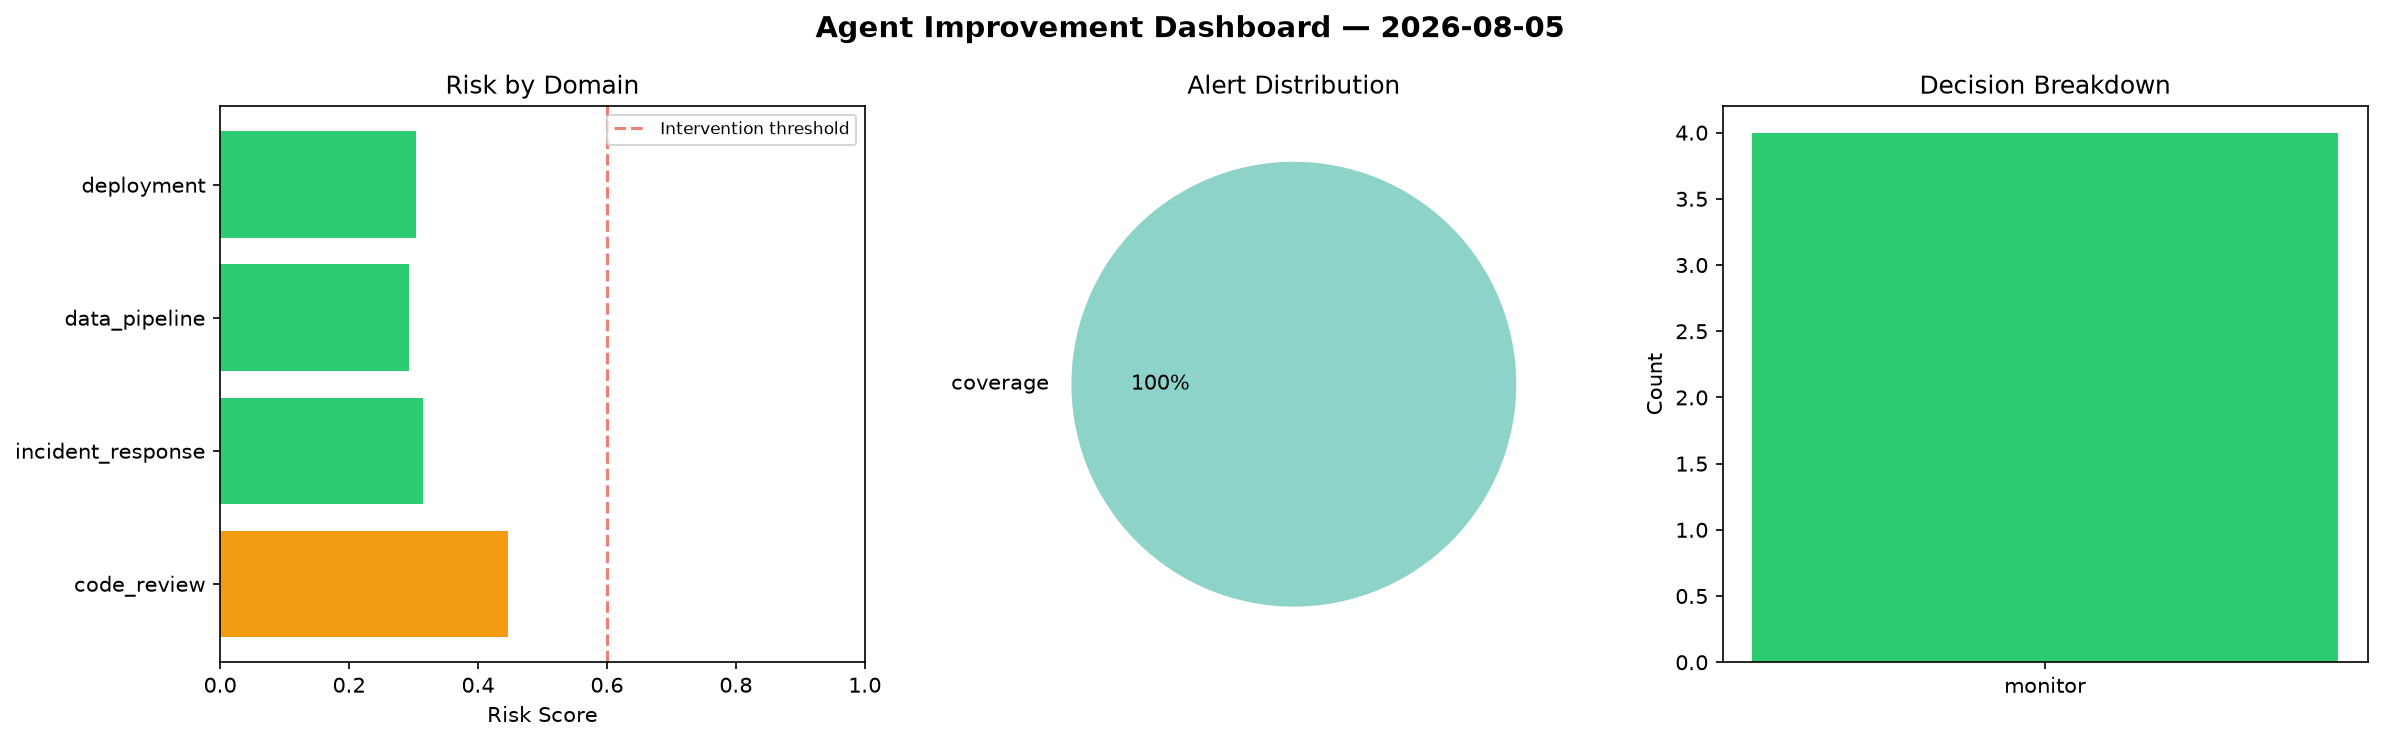
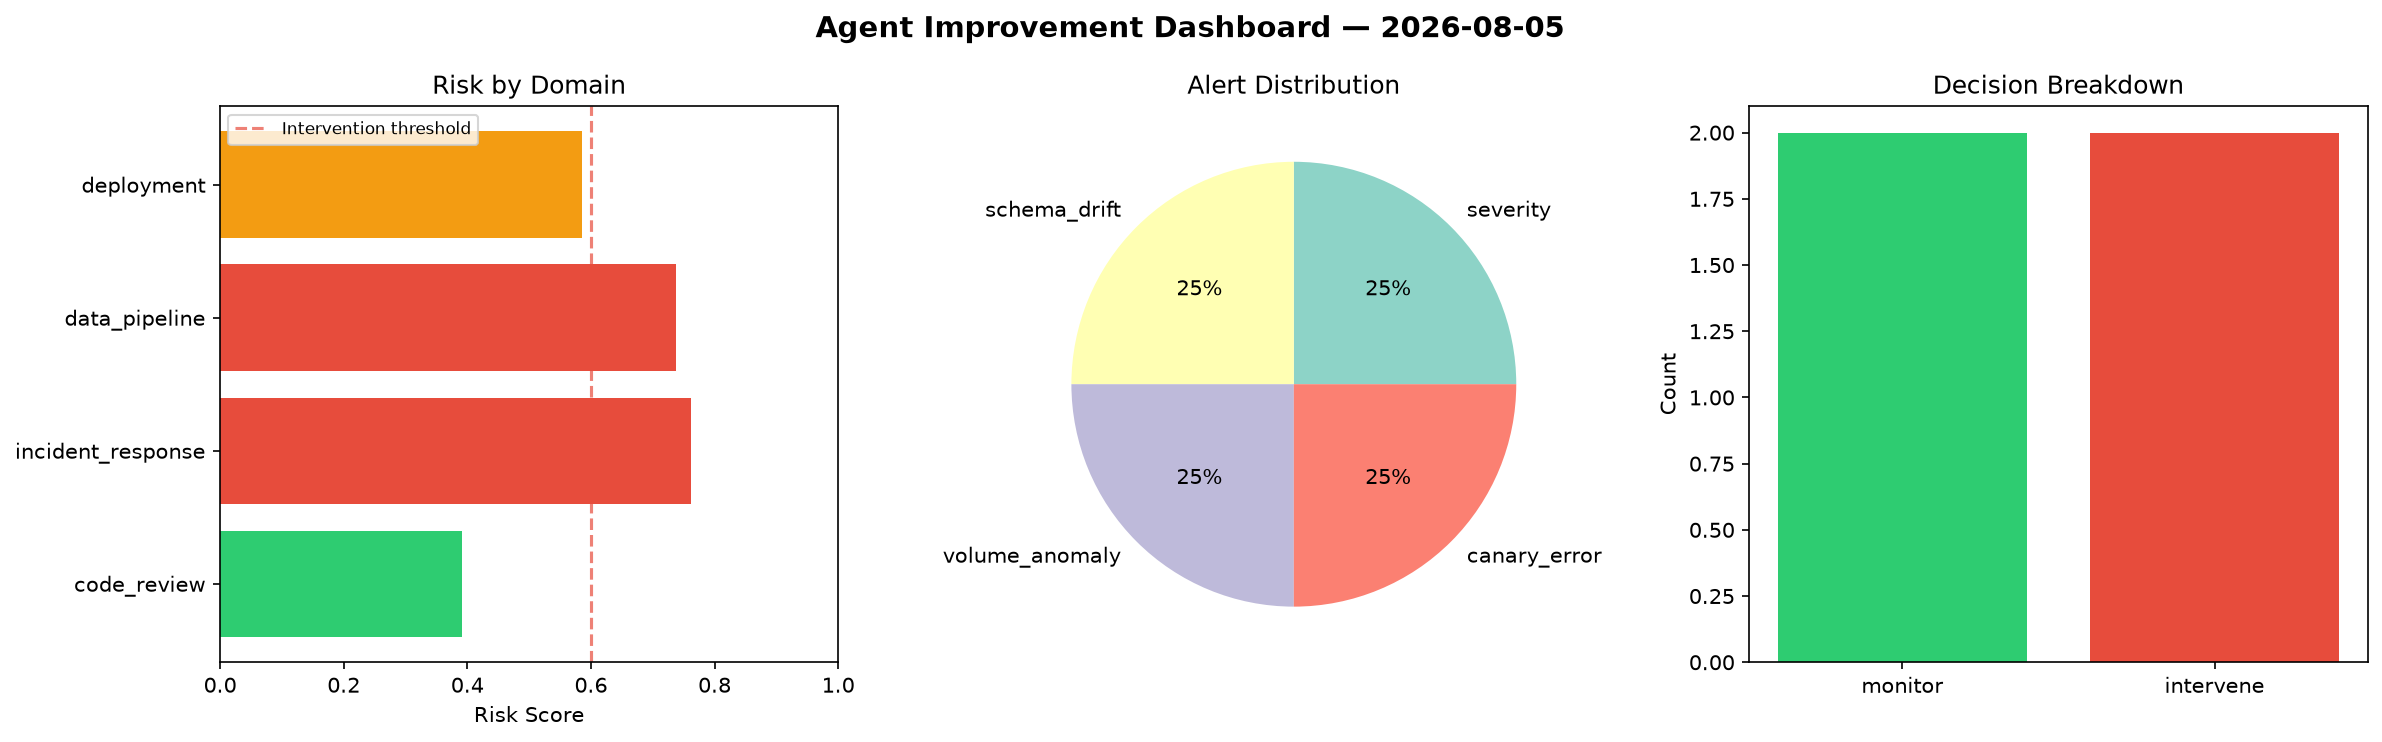
agent-improvement: daily cycle 2026-08-05T21:30

diff --git a/logs/2026-08-05.md b/logs/2026-08-05.md
@@ -1,6 +1,6 @@
 # Agent Improvement Report — 2026-08-05
 
-**Cycle ID:** `532a2af0` | **Avg Risk:** 0.3397 | **Interventions:** 0/4
+**Cycle ID:** `3d6f11b5` | **Avg Risk:** 0.6191 | **Interventions:** 2/4
 
 ![Dashboard](2026-08-05_dashboard.png)
 
@@ -10,18 +10,18 @@
 
 | Domain | Risk Score | Decision | Alerts |
 |--------|-----------|----------|--------|
-| code_review | 0.4472 | monitor | coverage |
-| incident_response | 0.3152 | monitor | none |
-| data_pipeline | 0.293 | monitor | none |
-| deployment | 0.3035 | monitor | none |
+| code_review | 0.3914 | monitor | none |
+| incident_response | 0.7612 | intervene | severity |
+| data_pipeline | 0.7381 | intervene | schema_drift, volume_anomaly |
+| deployment | 0.5859 | monitor | canary_error |
 
 ## Delta vs Yesterday
 
 | Domain | Today | Yesterday | Change |
 |--------|-------|-----------|--------|
-| code_review | 0.4472 | 0.7073 | 📉 -36.8% |
-| incident_response | 0.3152 | 0.4494 | 📉 -29.9% |
-| data_pipeline | 0.293 | 0.2941 | 📉 -0.4% |
-| deployment | 0.3035 | 0.4453 | 📉 -31.8% |
+| code_review | 0.3914 | 0.7073 | 📉 -44.7% |
+| incident_response | 0.7612 | 0.4494 | 📈 69.4% |
+| data_pipeline | 0.7381 | 0.2941 | 📈 151.0% |
+| deployment | 0.5859 | 0.4453 | 📈 31.6% |
 
-**Refinement:** `{'adjustment': 'maintain', 'trend': 'improving', 'window': 4}`
+**Refinement:** `{'adjustment': 'tighten_thresholds', 'trend': 'degrading', 'window': 4}`
